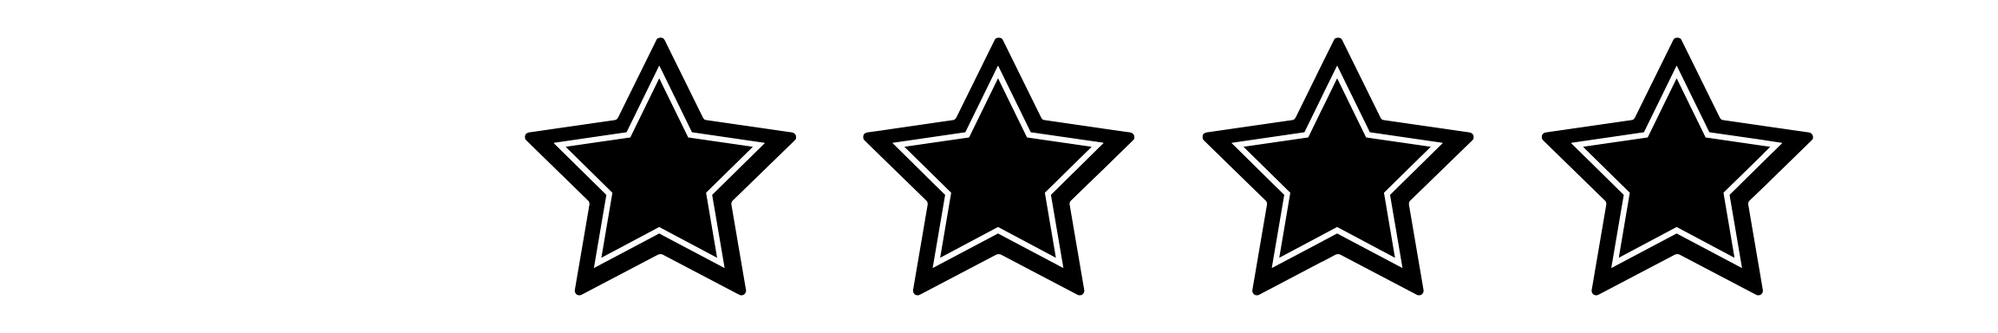
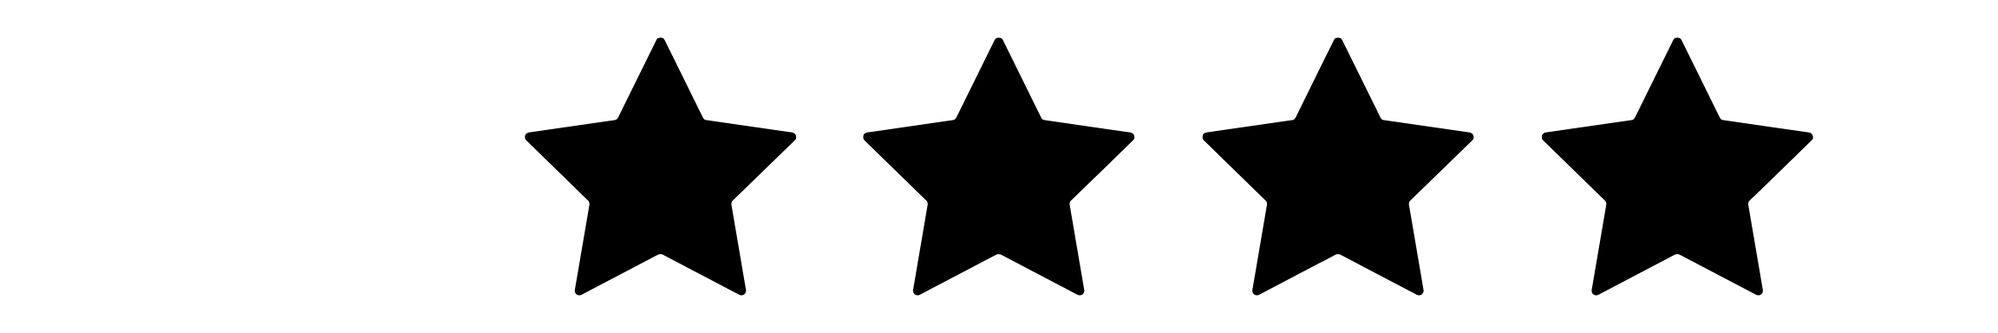
Adjusted margin, and changed the stars

diff --git a/styles.css b/styles.css
@@ -31,7 +31,7 @@ h1,
   display: flex;
   flex-direction: column;
   padding: 1em;
-  margin: 4em auto 3em;
+  margin: 5em auto;
   width: 22em;
   height: 38.25em;
   border-radius: 1em;
